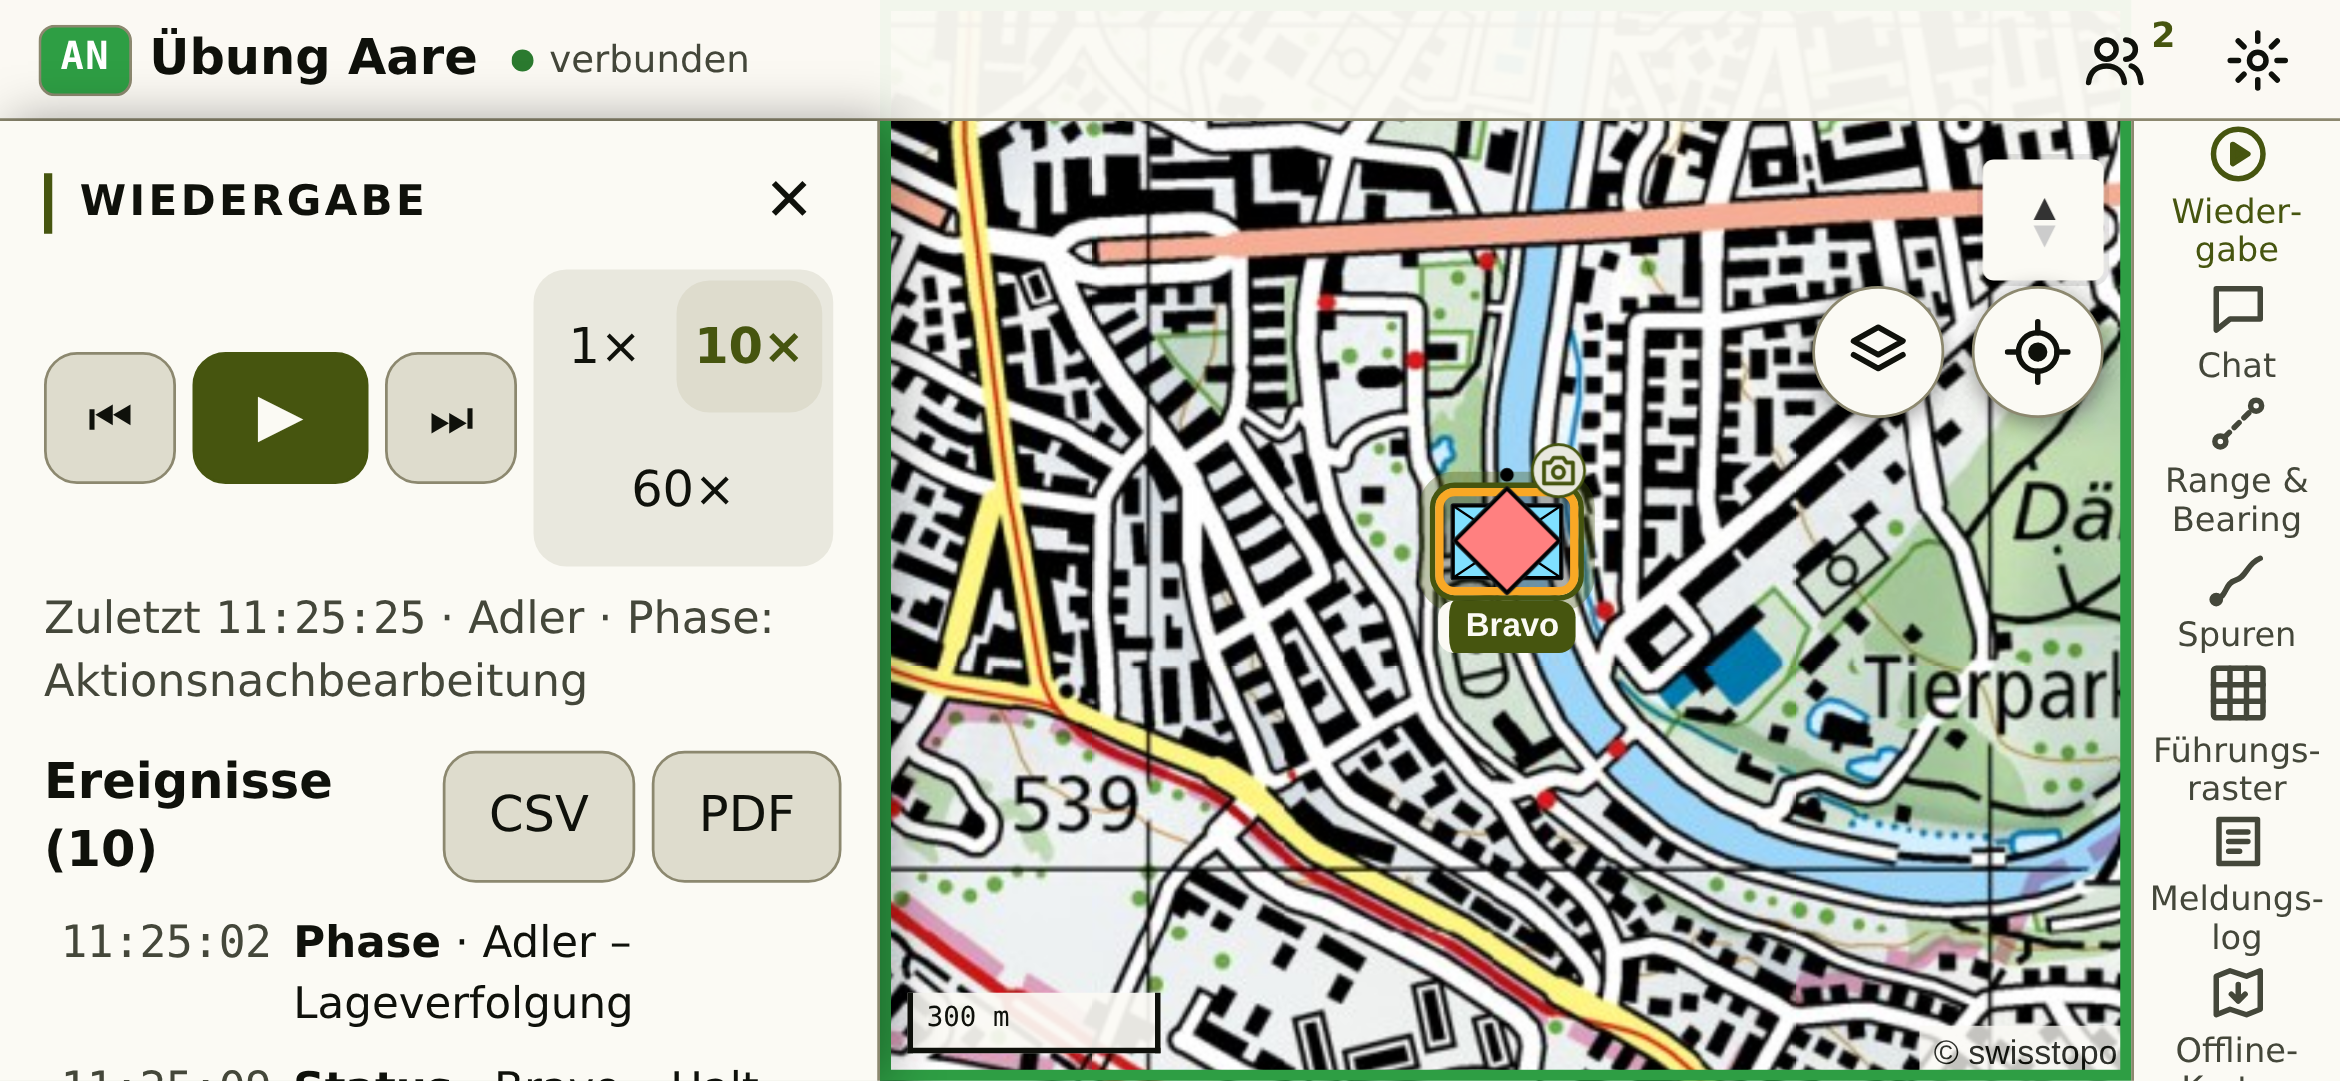
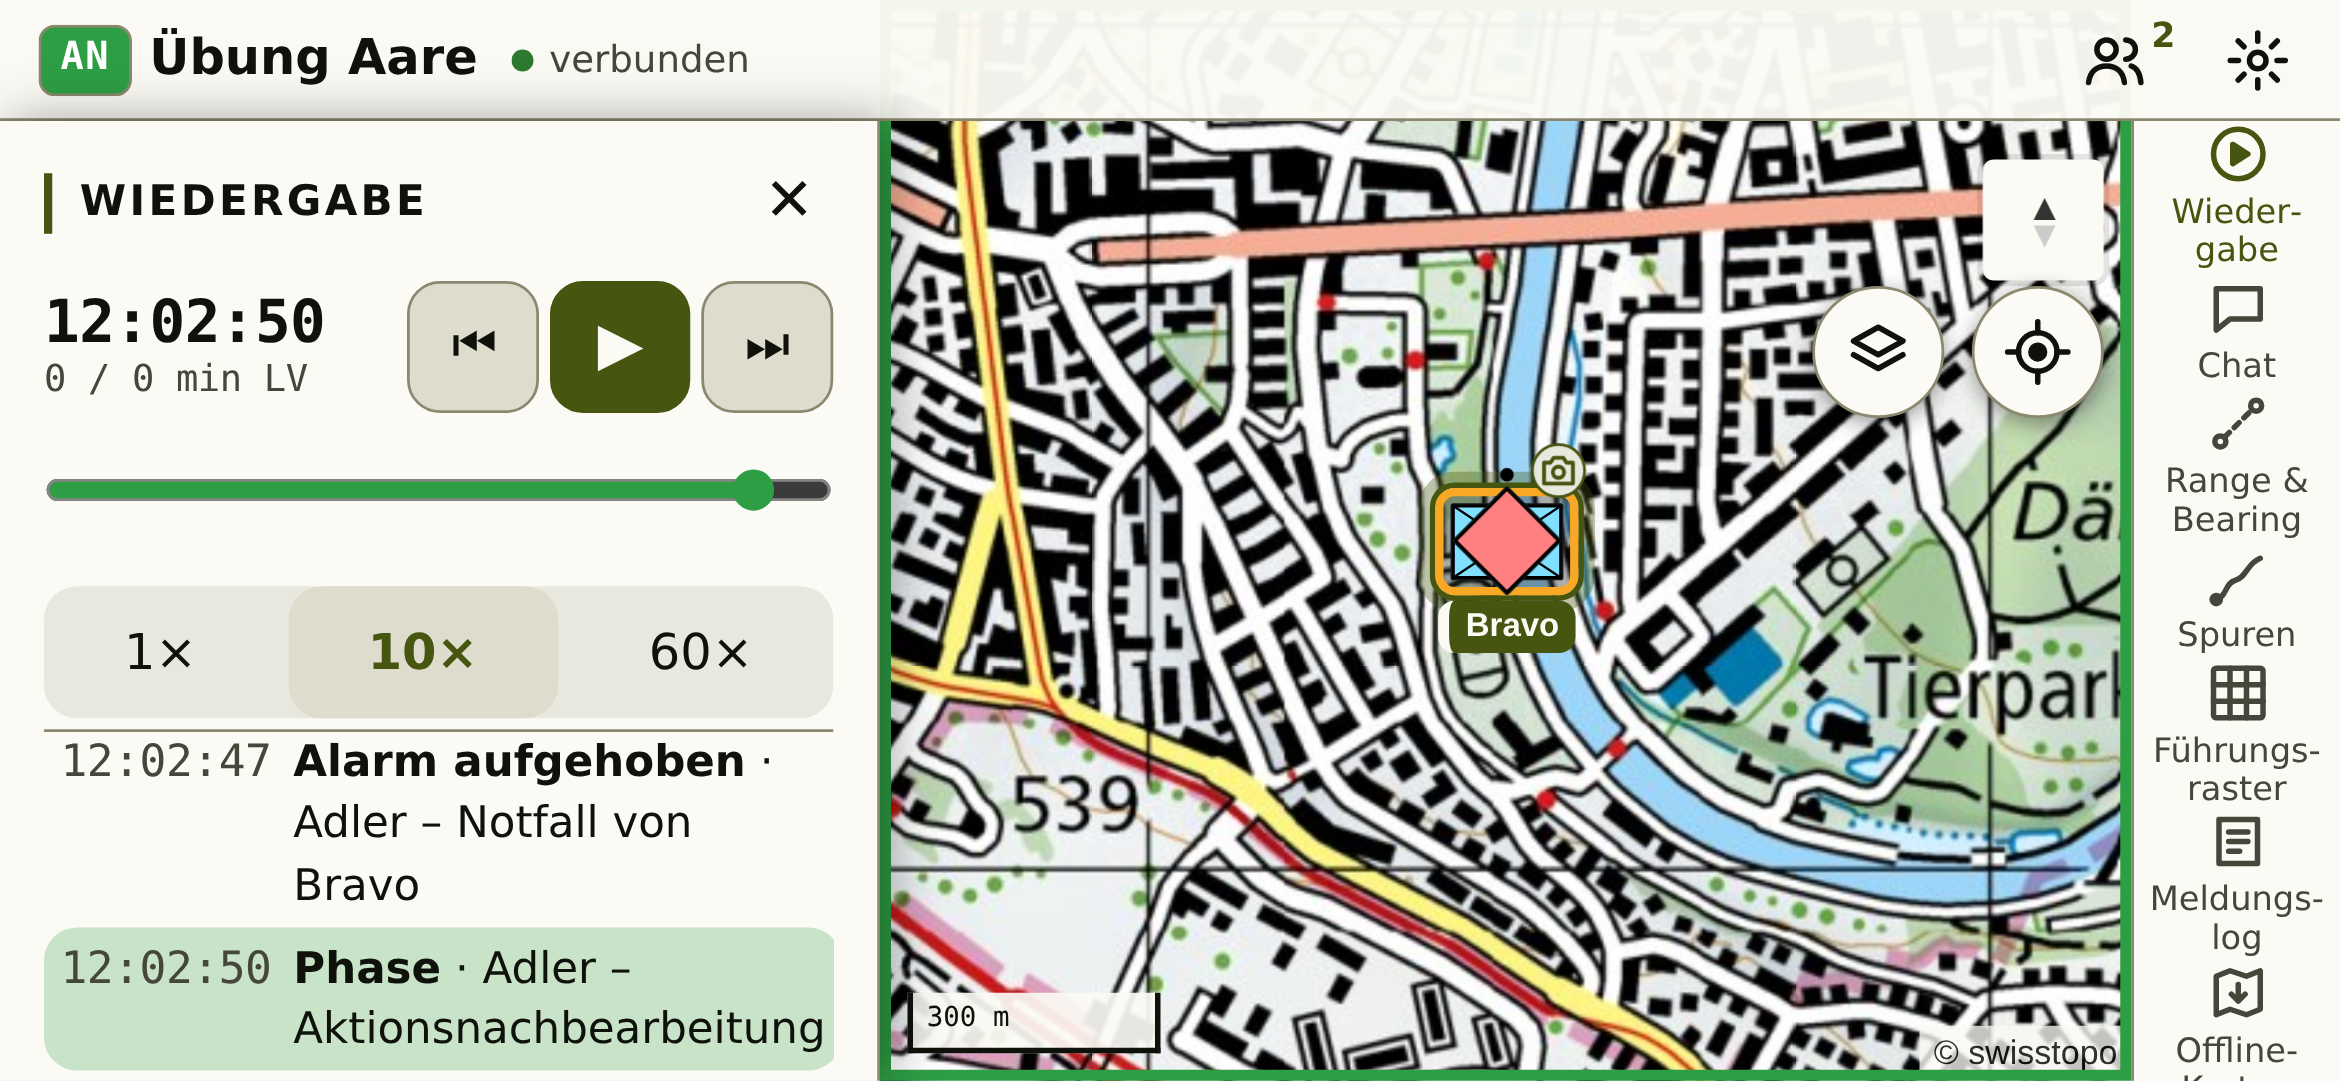
fix: Wiedergabe quer – Zeitleiste und Knöpfe bleiben fest, nur die Liste scrollt
Kopf (Uhrzeit + Knöpfe in einer Zeile, Schieber volle Breite, Tempo einzeilig) steht fest;
Notiz, «Zuletzt» und Ereignisliste scrollen in einem eigenen Bereich darunter. Hoch (Sheet
ohne feste Höhe) scrollt wie bisher das ganze Panel, der Mitlauf lässt den Kopf ganz sichtbar.
Test in quer-layout.e2e.ts: nach Mitlauf ans Listenende Uhrzeit, Schieber und Abspielknopf
ganz im Panel, darunter Platz für ≥ 2 Listenzeilen (quer und quer-gross).

Claude-Session: https://claude.ai/code/session_01Fo5QxxrixuCWEFZHSUx93F

Changed region(s): [[0.0, 0.519, 0.3744, 1.0], [0.0, 0.2442, 0.3744, 0.4884]]

diff --git a/client/src/features/wiedergabe/Panel.svelte b/client/src/features/wiedergabe/Panel.svelte
@@ -80,19 +80,22 @@
   const notizMarken = $derived(store.notizen.map((n) => ({ id: n.id, x: (versatzAus(f, n.t) / (gesamt || 1)) * 100 })));
 
   let liste = $state<HTMLElement>();
-  let steuerung = $state<HTMLElement>();
-  // aktuelle Zeile beim Abspielen im Blick halten, aber nie die Knöpfe (Pause!) oben aus dem Panel schieben: quer ist
-  // das Panel nur gut 300 px hoch, scrollIntoView rollte beim Abspielen die ganze Zeitleiste weg. Den Stand zeigt dann
-  // die Zeile «Zuletzt» unter den Knöpfen.
+  let kopf = $state<HTMLElement>();
+  let rumpf = $state<HTMLElement>();
+  // aktuelle Zeile beim Abspielen im Blick halten. Quer scrollt nur der Rumpf unter dem festen Kopf; hoch (Sheet ohne feste
+  // Höhe) scrollt das ganze Panel, dann nie weiter, als der Kopf ganz sichtbar bleibt – den Stand zeigt sonst «Zuletzt».
   $effect(() => {
     void aktuell;
     const zeile = liste?.querySelector<HTMLElement>('[aria-current="true"]');
-    const panel = zeile?.closest<HTMLElement>('.inhalt');
-    if (!zeile || !panel || !steuerung) return;
-    const p = panel.getBoundingClientRect();
+    if (!zeile || !rumpf || !kopf) return;
+    const scroller = rumpf.scrollHeight > rumpf.clientHeight + 1 ? rumpf : rumpf.closest<HTMLElement>('.inhalt');
+    if (!scroller) return;
+    const p = scroller.getBoundingClientRect();
     const z = zeile.getBoundingClientRect();
-    const d = z.bottom > p.bottom ? Math.min(z.bottom - p.bottom, Math.max(0, steuerung.getBoundingClientRect().top - p.top)) : Math.min(0, z.top - p.top);
-    panel.scrollTop += d;
+    const k = kopf.getBoundingClientRect();
+    const mitKopf = scroller.contains(kopf);
+    const d = z.bottom > p.bottom ? Math.min(z.bottom - p.bottom, mitKopf ? Math.max(0, k.top - p.top) : Infinity) : Math.min(0, z.top - (mitKopf ? k.bottom : p.top));
+    scroller.scrollTop += d;
   });
 
   function naechstes(richtung: 1 | -1) {
@@ -121,102 +124,149 @@
 {:else if !f.length}
   <p class="leise">Keine Lageverfolgung aufgezeichnet.</p>
 {:else}
-  <section class="leiste" aria-label="Zeitleiste">
-    <div class="zeit">
-      <strong class="mono" aria-live="off">{uhrzeit(wg.t)}</strong>
-      <span class="leise mono">{Math.round(versatz / 60_000)} / {Math.round(gesamt / 60_000)} min LV</span>
-    </div>
-    <div class="schiene">
-      <input
-        type="range"
-        aria-label="Zeitpunkt"
-        min="0"
-        max={gesamt}
-        step="1000"
-        value={versatz}
-        oninput={(e) => {
-          pause();
-          springeVersatz(Number(e.currentTarget.value));
-        }}
-      />
-      {#each naehte as n, i (i)}<span class="naht" style:left="{n.x}%" title="{n.phase} übersprungen">{n.phase}</span>{/each}
-      {#each notizMarken as n (n.id)}<span class="notiz-marke" style:left="{n.x}%" aria-hidden="true"></span>{/each}
-    </div>
-    <div class="knoepfe" bind:this={steuerung}>
-      <button class="icon" aria-label="Voriges Ereignis" title="Voriges Ereignis (Alt+←)" onclick={() => naechstes(-1)}>⏮</button>
-      {#if wg.spielt}
-        <button class="primaer spiel" aria-label="Pause" onclick={pause}>⏸</button>
-      {:else}
-        <button class="primaer spiel" aria-label="Abspielen" title="Abspielen (Leertaste)" onclick={spiele}>▶</button>
-      {/if}
-      <button class="icon" aria-label="Nächstes Ereignis" title="Nächstes Ereignis (Alt+→)" onclick={() => naechstes(1)}>⏭</button>
+  <div class="wg">
+    <!-- fester Kopf: Uhrzeit, Knöpfe, Schieber, Tempo; nur der Rumpf (Notiz, «Zuletzt», Ereignisliste) scrollt darunter -->
+    <section class="leiste" aria-label="Zeitleiste" bind:this={kopf}>
+      <div class="reihe">
+        <div class="zeit">
+          <strong class="mono" aria-live="off">{uhrzeit(wg.t)}</strong>
+          <span class="leise mono">{Math.round(versatz / 60_000)} / {Math.round(gesamt / 60_000)} min LV</span>
+        </div>
+        <div class="knoepfe">
+          <button class="icon" aria-label="Voriges Ereignis" title="Voriges Ereignis (Alt+←)" onclick={() => naechstes(-1)}>⏮</button>
+          {#if wg.spielt}
+            <button class="primaer spiel" aria-label="Pause" onclick={pause}>⏸</button>
+          {:else}
+            <button class="primaer spiel" aria-label="Abspielen" title="Abspielen (Leertaste)" onclick={spiele}>▶</button>
+          {/if}
+          <button class="icon" aria-label="Nächstes Ereignis" title="Nächstes Ereignis (Alt+→)" onclick={() => naechstes(1)}>⏭</button>
+        </div>
+      </div>
+      <div class="schiene">
+        <input
+          type="range"
+          aria-label="Zeitpunkt"
+          min="0"
+          max={gesamt}
+          step="1000"
+          value={versatz}
+          oninput={(e) => {
+            pause();
+            springeVersatz(Number(e.currentTarget.value));
+          }}
+        />
+        {#each naehte as n, i (i)}<span class="naht" style:left="{n.x}%" title="{n.phase} übersprungen">{n.phase}</span>{/each}
+        {#each notizMarken as n (n.id)}<span class="notiz-marke" style:left="{n.x}%" aria-hidden="true"></span>{/each}
+      </div>
       <div class="segmente tempo" role="group" aria-label="Tempo">
         {#each TEMPI as x (x)}<button aria-pressed={wg.tempo === x} onclick={() => (wg.tempo = x)}>{x}×</button>{/each}
       </div>
-    </div>
-    {#if store.istLeitung}
-      {#if notiz === null}
-        <button class="breit" onclick={() => (pause(), (notiz = ''))}>+ Notiz bei {uhrzeit(wg.t)}</button>
-      {:else}
-        <form class="notiz" onsubmit={(e) => (e.preventDefault(), notizSpeichern())}>
-          <textarea aria-label="Notiz" maxlength="500" rows="2" placeholder="Beobachtung für das Debriefing" bind:value={notiz}></textarea>
-          <div class="knoepfe">
-            <button type="button" onclick={() => (notiz = null)}>Abbrechen</button>
-            <button class="primaer" type="submit" disabled={!notiz.trim()}>Notiz speichern</button>
-          </div>
-        </form>
-      {/if}
-    {/if}
-    {#if aktuell >= 0}
-      {@const z = zeilen[aktuell]}
-      <p class="zuletzt" role="status">Zuletzt <span class="mono">{uhrzeit(z.t)}</span> · {z.rufname} · {z.ereignis}{z.details ? `: ${z.details}` : ''}</p>
-    {/if}
-  </section>
+    </section>
 
-  <section class="ereignisse" aria-label="Ereignisliste">
-    <div class="kopfzeile">
-      <h3>Ereignisse ({zeilen.length})</h3>
-      <button onclick={() => exportiere('csv')}>CSV</button>
-      <button onclick={() => exportiere('pdf')}>PDF</button>
+    <div class="rumpf" bind:this={rumpf}>
+      {#if store.istLeitung}
+        {#if notiz === null}
+          <button class="breit" onclick={() => (pause(), (notiz = ''))}>+ Notiz bei {uhrzeit(wg.t)}</button>
+        {:else}
+          <form class="notiz" onsubmit={(e) => (e.preventDefault(), notizSpeichern())}>
+            <textarea aria-label="Notiz" maxlength="500" rows="2" placeholder="Beobachtung für das Debriefing" bind:value={notiz}></textarea>
+            <div class="knoepfe">
+              <button type="button" onclick={() => (notiz = null)}>Abbrechen</button>
+              <button class="primaer" type="submit" disabled={!notiz.trim()}>Notiz speichern</button>
+            </div>
+          </form>
+        {/if}
+      {/if}
+      {#if aktuell >= 0}
+        {@const z = zeilen[aktuell]}
+        <p class="zuletzt" role="status">Zuletzt <span class="mono">{uhrzeit(z.t)}</span> · {z.rufname} · {z.ereignis}{z.details ? `: ${z.details}` : ''}</p>
+      {/if}
+
+      <section class="ereignisse" aria-label="Ereignisliste">
+        <div class="kopfzeile">
+          <h3>Ereignisse ({zeilen.length})</h3>
+          <button onclick={() => exportiere('csv')}>CSV</button>
+          <button onclick={() => exportiere('pdf')}>PDF</button>
+        </div>
+        <ol class="liste" bind:this={liste}>
+          {#each zeilen as z, i (i)}
+            <li>
+              <button class="zeile" aria-current={i === aktuell} onclick={() => (pause(), springe(z.t))}>
+                <span class="mono leise">{uhrzeit(z.t)}</span>
+                <span><strong>{z.ereignis}</strong> · {z.rufname}{z.details ? ` – ${z.details}` : ''}{z.zelle ? ` · ${z.zelle}` : ''}</span>
+              </button>
+              {#if z.notizId && store.istLeitung}
+                {@const id = z.notizId}
+                <button class="icon weg" aria-label="Notiz löschen" onclick={() => notizLoeschen(id)}>✕</button>
+              {/if}
+            </li>
+          {/each}
+        </ol>
+      </section>
     </div>
-    <ol class="liste" bind:this={liste}>
-      {#each zeilen as z, i (i)}
-        <li>
-          <button class="zeile" aria-current={i === aktuell} onclick={() => (pause(), springe(z.t))}>
-            <span class="mono leise">{uhrzeit(z.t)}</span>
-            <span><strong>{z.ereignis}</strong> · {z.rufname}{z.details ? ` – ${z.details}` : ''}{z.zelle ? ` · ${z.zelle}` : ''}</span>
-          </button>
-          {#if z.notizId && store.istLeitung}
-            {@const id = z.notizId}
-            <button class="icon weg" aria-label="Notiz löschen" onclick={() => notizLoeschen(id)}>✕</button>
-          {/if}
-        </li>
-      {/each}
-    </ol>
-  </section>
+  </div>
 {/if}
 
 <style>
+  /* Quer hat das Sheet eine feste Höhe: Kopf fest, Rumpf scrollt. Hoch (nur max-height) greift height: 100% nicht,
+     dann scrollt wie bisher das ganze Panel. */
+  .wg {
+    height: 100%;
+    display: flex;
+    flex-direction: column;
+  }
+  /* quer: die Liste läuft bis an den Panelrand (Sheet-Innenabstand unten bleibt sonst als tote Fläche unter dem Scrollbereich) */
+  @media (orientation: landscape) {
+    .wg {
+      height: calc(100% + 12px);
+      margin-bottom: -12px;
+    }
+  }
   .leiste {
+    flex: none;
     display: grid;
-    gap: 8px;
+    gap: 4px;
+    padding-bottom: 4px;
+    border-bottom: 1px solid var(--line);
+  }
+  .rumpf {
+    flex: 1;
+    min-height: 0;
+    overflow-y: auto;
+    overscroll-behavior: contain;
+    padding-top: 4px;
+  }
+  .reihe {
+    display: flex;
+    flex-wrap: wrap;
+    align-items: center;
+    justify-content: space-between;
+    gap: 4px 8px;
+  }
+  .reihe .knoepfe {
+    gap: 4px;
   }
   .zeit {
-    display: flex;
-    align-items: baseline;
-    justify-content: space-between;
-    gap: 8px;
+    display: grid;
+    line-height: 1.15;
   }
   .zeit strong {
-    font-size: 1.4rem;
+    font-size: 1.2rem;
+  }
+  .zeit span {
+    font-size: 0.75rem;
   }
   .schiene {
     position: relative;
-    padding-bottom: 14px;
+  }
+  /* Platz für die Naht-Beschriftungen nur, wenn es Nähte gibt (mehrere LV-Abschnitte) */
+  .schiene:has(.naht) {
+    padding-bottom: 12px;
   }
   .schiene input {
     width: 100%;
     min-height: var(--touch);
+    margin: 0;
     accent-color: #2e9e44;
   }
   .naht {
@@ -236,17 +286,18 @@
     gap: 6px;
   }
   .spiel {
-    min-width: 64px;
+    min-width: var(--touch);
     font-size: 1.2rem;
   }
   .tempo {
-    flex: 1;
+    flex-wrap: nowrap;
+    padding: 0;
   }
   .fehler {
     color: var(--danger);
   }
   .zuletzt {
-    margin: 0;
+    margin: 8px 0 0;
     font-size: 0.9rem;
     color: var(--text-2);
     overflow-wrap: anywhere;
@@ -268,7 +319,7 @@
   }
   .notiz-marke {
     position: absolute;
-    bottom: 16px;
+    top: calc(var(--touch) - 12px);
     width: 8px;
     height: 8px;
     translate: -50% 0;

diff --git a/e2e/quer-layout.e2e.ts b/e2e/quer-layout.e2e.ts
@@ -197,7 +197,34 @@ test('AN: Wiedergabe offen mit Ereignisliste @layout', async () => {
     await expect(a.p.locator('.phase-rahmen.an')).toBeAttached();
     await pruefe(a, 'AN', false);
     await a.p.getByRole('button', { name: 'Wiedergabe', exact: true }).first().click();
-    await expect(a.p.getByRole('region', { name: 'Wiedergabe' }).getByRole('slider', { name: 'Zeitpunkt' })).toBeVisible();
+    const wg = a.p.getByRole('region', { name: 'Wiedergabe' });
+    const zeitpunkt = wg.getByRole('slider', { name: 'Zeitpunkt' });
+    await expect(zeitpunkt).toBeVisible();
     await pruefe(a, 'AN Wiedergabe', true);
+    // Mitlauf ans Ende der Liste: Uhrzeit, Schieber und Knöpfe bleiben als Kopf ganz im Panel, darunter noch ≥ 2 Listenzeilen
+    await zeitpunkt.fill(String(Math.floor(Number(await zeitpunkt.getAttribute('max')) / 1000) * 1000));
+    await wg.getByRole('button', { name: 'Voriges Ereignis' }).click();
+    await wg.getByRole('button', { name: 'Abspielen' }).click();
+    await a.p.waitForTimeout(1500);
+    await expect(wg.locator('.liste [aria-current="true"]')).toBeAttached();
+    const m = await wg.evaluate((w) => {
+      const r = (s: string) => w.querySelector(s)!.getBoundingClientRect();
+      const panel = r('.inhalt');
+      const rumpf = (w.querySelector('.rumpf') ?? w.querySelector('.inhalt'))!.getBoundingClientRect(); // Scrollbereich der Liste
+      return {
+        panel: { t: panel.top, b: panel.bottom },
+        teile: [r('.zeit strong'), r('[aria-label="Zeitpunkt"]'), r('.spiel')].map((x) => ({ t: x.top, b: x.bottom })),
+        frei: rumpf.bottom - Math.max(rumpf.top, r('.leiste').bottom),
+        zeile: parseFloat(getComputedStyle(w.querySelector('.liste .zeile')!).minHeight),
+      };
+    });
+    for (const [i, t] of m.teile.entries()) {
+      expect(t.t, `${a.name}: Kopfteil ${i} oben im Panel`).toBeGreaterThanOrEqual(m.panel.t - 0.5);
+      expect(t.b, `${a.name}: Kopfteil ${i} unten im Panel`).toBeLessThanOrEqual(m.panel.b + 0.5);
+    }
+    expect(m.frei, `${a.name}: Liste zeigt ≥ 2 Zeilen`).toBeGreaterThanOrEqual(2 * m.zeile);
+    const pause = wg.getByRole('button', { name: 'Pause' });
+    if (await pause.isVisible()) await pause.click(); // am Ende hält die Wiedergabe von selbst
+    await pruefe(a, 'AN Wiedergabe Mitlauf', true);
   }
 });
